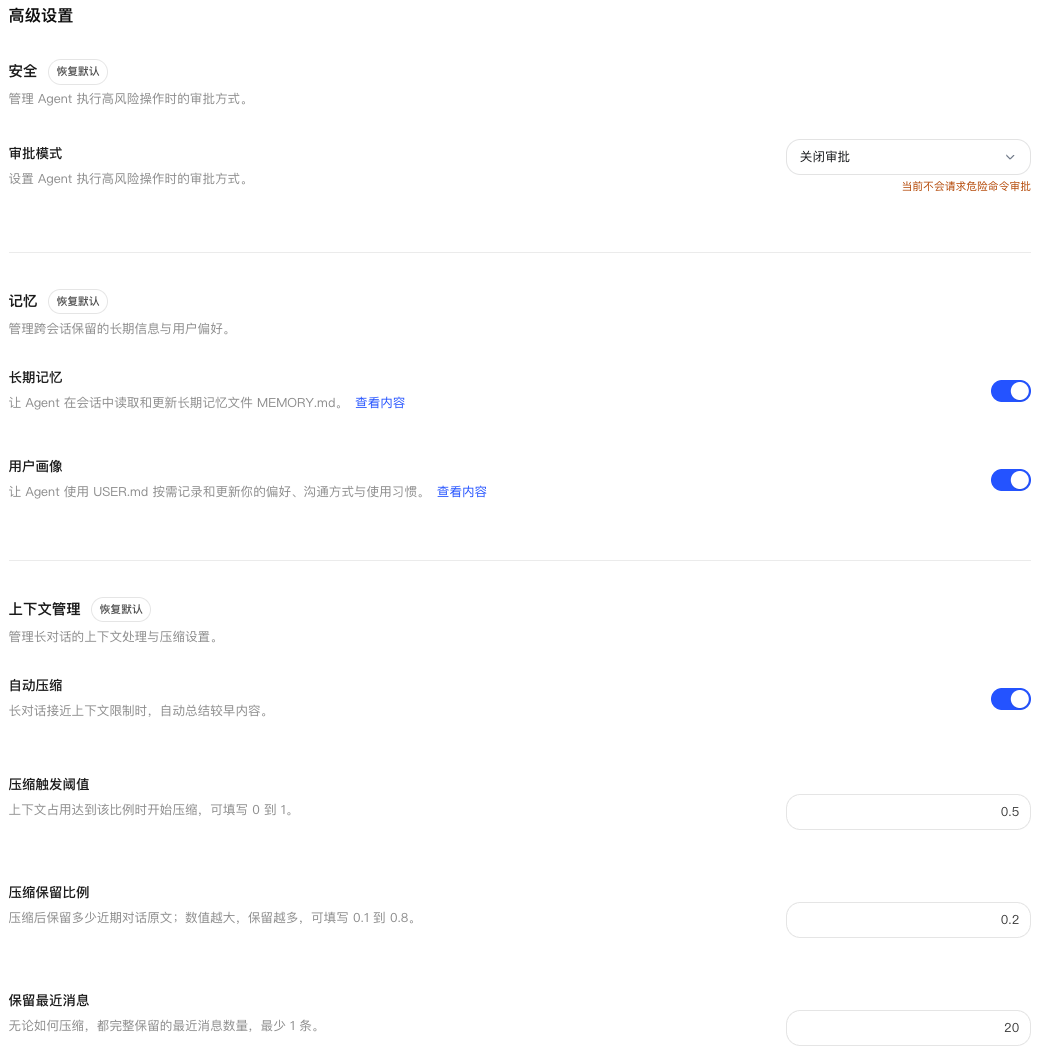
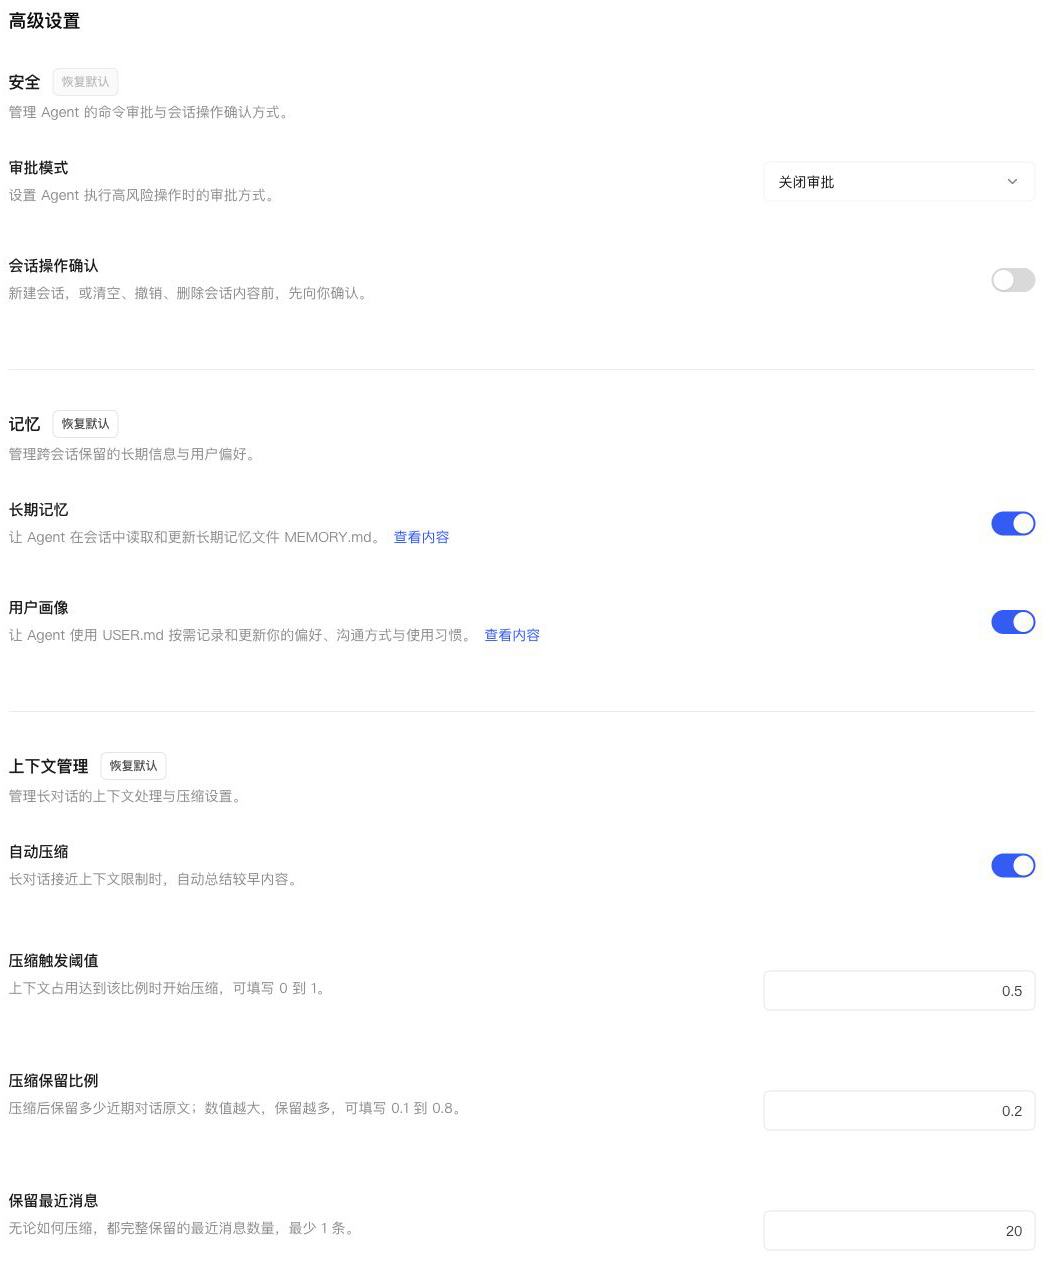
[FE-AI] chore(changelog): 更新高级设置功能截图
- 更新中国站与国际站高级设置 Changelog 截图
- 同步调整图片比例及对应测试断言

AI-Assisted-By: FE-AI

diff --git a/frontend/src/pages/marketing/__tests__/global-changelog.test.tsx b/frontend/src/pages/marketing/__tests__/global-changelog.test.tsx
@@ -103,7 +103,7 @@ describe("global changelog skill package entry", () => {
       "src",
       expect.stringContaining("/assets/changelog/lightvela-advanced-settings-cn.png"),
     );
-    expect(zhAdvancedSettingsImage.parentElement).toHaveStyle({ aspectRatio: "1043 / 1059" });
+    expect(zhAdvancedSettingsImage.parentElement).toHaveStyle({ aspectRatio: "1043 / 1282" });
     expect(
       screen.getByRole("heading", { name: "LightVela 支持上传自定义人设文件" }),
     ).toBeInTheDocument();
@@ -221,7 +221,7 @@ describe("global changelog skill package entry", () => {
       "src",
       expect.stringContaining("/assets/changelog/lightvela-advanced-settings-en.png"),
     );
-    expect(enAdvancedSettingsImage.parentElement).toHaveStyle({ aspectRatio: "1055 / 1071" });
+    expect(enAdvancedSettingsImage.parentElement).toHaveStyle({ aspectRatio: "1055 / 1285" });
     const enPersonaImage = screen.getByAltText("LightVela Now Supports Custom Persona File Uploads");
     expect(enPersonaImage).toHaveAttribute(
       "src",

diff --git a/frontend/src/pages/marketing/changelog-page.tsx b/frontend/src/pages/marketing/changelog-page.tsx
@@ -243,8 +243,8 @@ export function VisualCard({ variant }: { variant: "lobster" | "cloudStorage" | 
         : "1454 / 1045"
       : variant === "advancedSettings"
       ? isGlobal
-        ? useGlobalChineseAsset ? "1043 / 1059" : "1055 / 1071"
-        : "1043 / 1059"
+        ? useGlobalChineseAsset ? "1043 / 1282" : "1055 / 1285"
+        : "1043 / 1282"
       : variant === "deepseekHarness"
       ? isGlobal && !useGlobalChineseAsset ? "2168 / 1287" : "2172 / 1286"
       : variant === "wecom"

diff --git a/frontend/src/pages/marketing/__tests__/channel-copy.test.tsx b/frontend/src/pages/marketing/__tests__/channel-copy.test.tsx
@@ -150,7 +150,7 @@ describe("marketing channel copy", () => {
       "src",
       expect.stringContaining("/assets/changelog/lightvela-advanced-settings-cn.png"),
     );
-    expect(advancedSettingsImage.parentElement).toHaveStyle({ aspectRatio: "1043 / 1059" });
+    expect(advancedSettingsImage.parentElement).toHaveStyle({ aspectRatio: "1043 / 1282" });
     expect(
       screen.getByRole("heading", { name: "LightVela 支持上传自定义人设文件" }),
     ).toBeInTheDocument();
